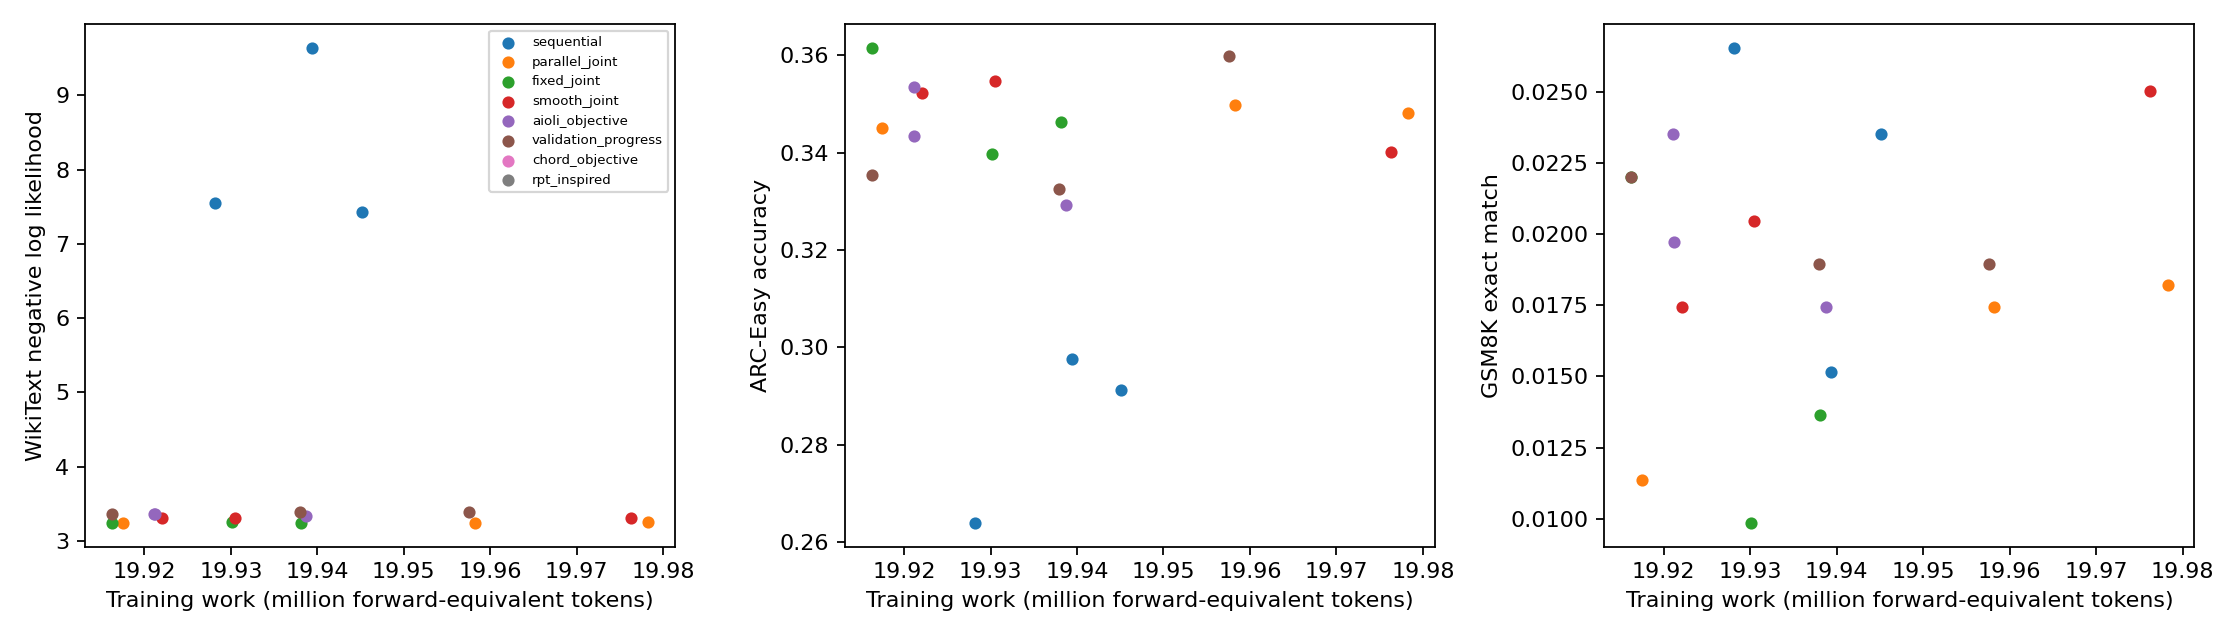
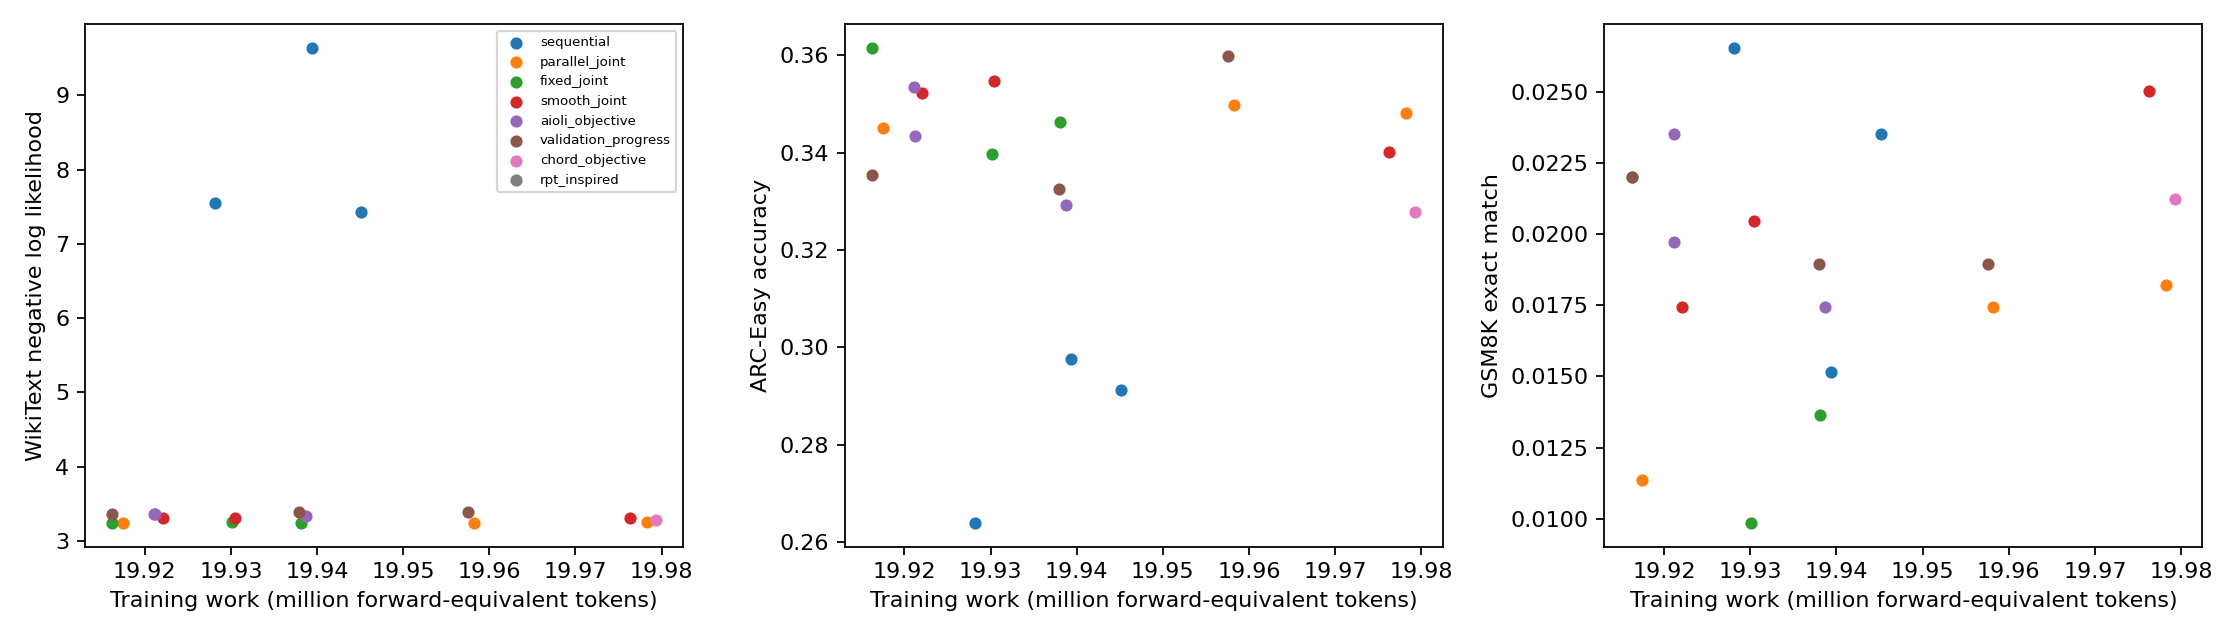
Report verified unified-training pilot progress

diff --git a/experiments/02_early_checkpoint_joint_objectives/results.md b/experiments/02_early_checkpoint_joint_objectives/results.md
@@ -22,7 +22,7 @@
 | validation_progress | 0 | complete | 19.958 | 0.3598 [0.3408, 0.3794] | 0.0190 [0.0129, 0.0278] | 3.3919 [3.3645, 3.4192] | 0.5977 [0.5366, 0.6559] / 0.6094 [0.5484, 0.6671] |
 | validation_progress | 1 | complete | 19.938 | 0.3325 [0.3138, 0.3517] | 0.0190 [0.0129, 0.0278] | 3.3887 [3.3604, 3.4169] | 0.5977 [0.5366, 0.6559] / 0.5195 [0.4585, 0.5800] |
 | validation_progress | 2 | complete | 19.916 | 0.3354 [0.3167, 0.3547] | 0.0220 [0.0154, 0.0314] | 3.3600 [3.3316, 3.3876] | 0.5781 [0.5169, 0.6370] / 0.5312 [0.4701, 0.5915] |
-| chord_objective | 0 | pending | unavailable | unavailable | unavailable | unavailable | unavailable |
+| chord_objective | 0 | complete | 19.979 | 0.3279 [0.3093, 0.3470] | 0.0212 [0.0147, 0.0305] | 3.2771 [3.2481, 3.3063] | 0.6133 [0.5524, 0.6708] / 0.5938 [0.5326, 0.6521] |
 | chord_objective | 1 | pending | unavailable | unavailable | unavailable | unavailable | unavailable |
 | chord_objective | 2 | pending | unavailable | unavailable | unavailable | unavailable | unavailable |
 | rpt_inspired | 0 | pending | unavailable | unavailable | unavailable | unavailable | unavailable |
@@ -33,7 +33,7 @@ NLL = negative log likelihood; preference raw ordering is the preference endpoin
 
 Intervals: 95% Wilson binary-item score, conditional on each trained model; p-val=n/a (no hypothesis test). Three seeds do not establish universal superiority. Aioli, CHORD (Controllable Harmonization of On- and Off-Policy Reinforcement Learning via Dynamic Weighting), and RPT (Reinforcement Pre-Training) are declared adaptations; exact CHERRY-RL identity remains unresolved.
 
-Complete: 18/24. See `expt_v1/PROTOCOL.md` and the program review reconciliation.
+Complete: 19/24. See `expt_v1/PROTOCOL.md` and the program review reconciliation.
 
 Seed uncertainty, two-stage seed/item intervals, initial-checkpoint changes and all paired comparisons: `expt_v1/analysis.json`. Missing trained seeds remain missing with separate accuracy sensitivity bounds. p-val=n/a throughout; no formal superiority verdict.
 

diff --git a/experiments/00_program/FINAL_STATUS.md b/experiments/00_program/FINAL_STATUS.md
@@ -1,6 +1,6 @@
 # Full-program status
 
-Verified cells: 42/48; failed: 0; interrupted: 0; pending: 6; unstarted at global bound: 0.
+Verified cells: 43/48; failed: 0; interrupted: 0; pending: 5; unstarted at global bound: 0.
 
 Full-program execution is incomplete. Required plan and implementation findings are reconciled; see acceptance.json.
 Results and uncertainty are in each experiment folder; no universal-superiority claim.
